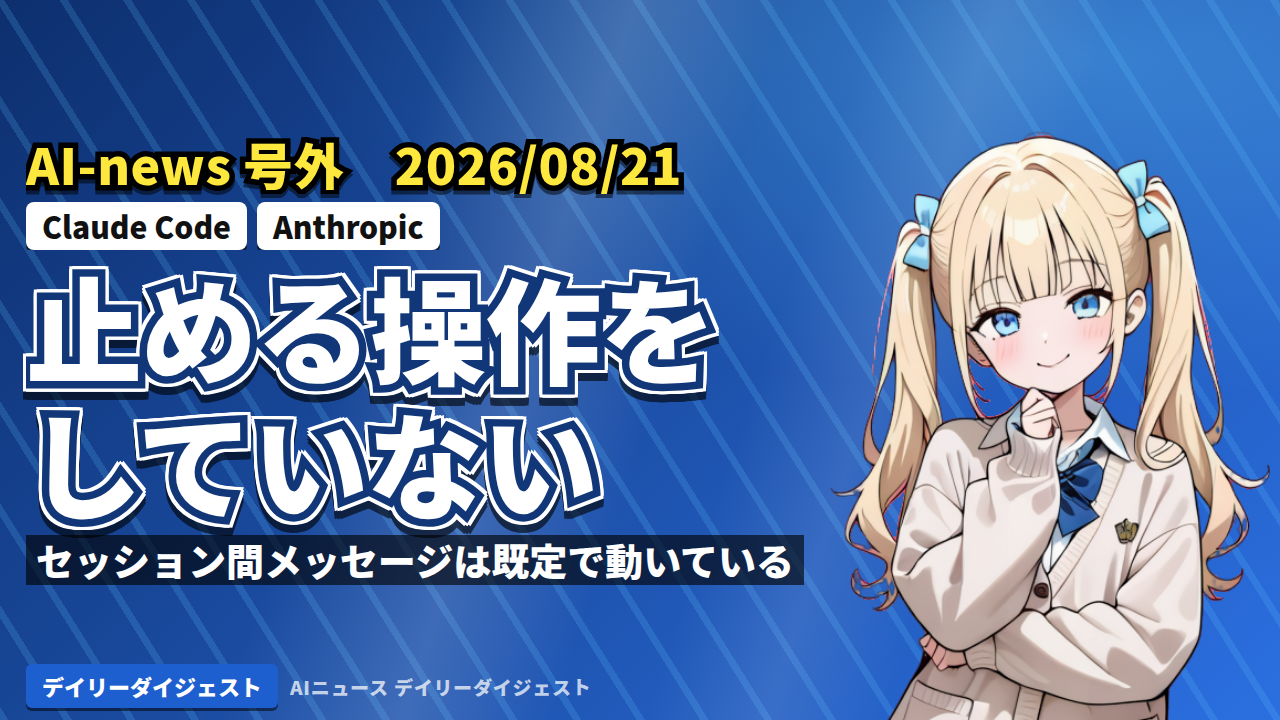
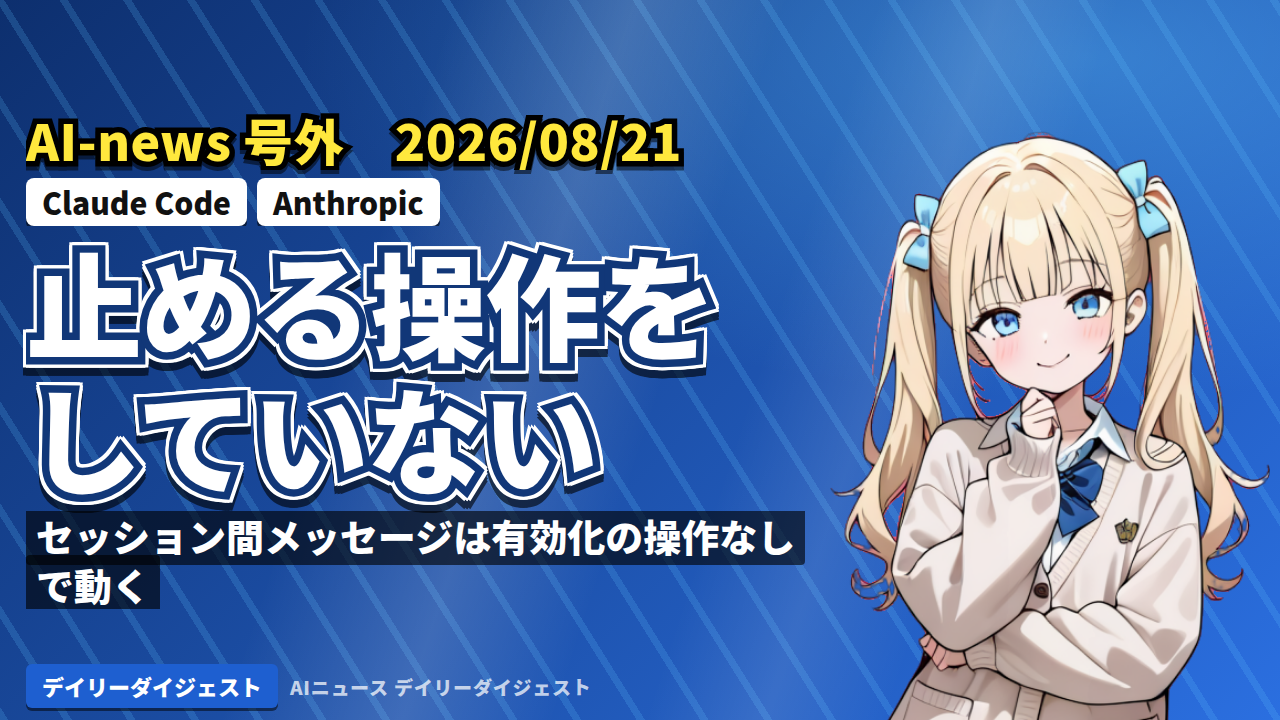
8/21号外に Ox Alpha を追記

Changed region(s): [[0.0, 0.1528, 0.625, 0.8556]]

diff --git a/index.html b/index.html
@@ -39,7 +39,7 @@
           <span class="hero-date">2026年8月21日(金)</span>
         </div>
         <h1 class="hero-title">AI-news：2026/08/21 号外 — Claude Codeのセッション間メッセージは、有効にする操作なしで動いている</h1>
-        <p class="hero-sum">収集網の穴を塞ぐ巡回を作り、落としていた4件を拾い直した号外。Claude Codeのセッション間メッセージは2.1.224から有効化操作なしでオンになっており、Bedrock経由では提供されない。Anthropic Python SDKが1.0.0になり、Bedrockはregion未指定だと起動時にValueErrorになる。公式のセッション運用ガイドと、MITで公開されたDeepSeek Harnessも扱う。</p>
+        <p class="hero-sum">収集網の穴を塞ぐ巡回を作り、落としていた4件を拾い直した号外。Claude Codeのセッション間メッセージは2.1.224から有効化操作なしでオンになっており、Bedrock経由では提供されない。Anthropic Python SDKが1.0.0になり、Bedrockはregion未指定だと起動時にValueErrorになる。今朝OpenRouterに現れた匿名モデル「Ox Alpha」は無料だがプロンプトが提供者に保持される。公式のセッション運用ガイドとDeepSeek HarnessのMIT公開も扱う。</p>
         <span class="hero-go">この号を読む</span>
       </div>
     </a>
@@ -115,13 +115,13 @@
 
     <div class="post-list" id="postList">
       <a class="post-card" href="contents/2026-08-21_002/"
-         data-tags="Claude Code|Anthropic|AWS|DeepSeek|OSS" data-category="デイリーダイジェスト"
-         data-date="2026-08-21" data-search="ai-news：2026/08/21 号外 — claude codeのセッション間メッセージは、有効にする操作なしで動いている 収集網の穴を塞ぐ巡回を作り、落としていた4件を拾い直した号外。claude codeのセッション間メッセージは2.1.224から有効化操作なしでオンになっており、bedrock経由では提供されない。anthropic python sdkが1.0.0になり、bedrockはregion未指定だと起動時にvalueerrorになる。公式のセッション運用ガイドと、mitで公開されたdeepseek harnessも扱う。 デイリーダイジェスト claude code anthropic aws deepseek oss ai-news：2026/08/21 号外 — claude codeのセッション間メッセージは、有効にする操作なしで動いている aiニュース デイリーダイジェスト 2026年8月21日(金) ai-news：2026/08/21 号外 — claude codeのセッション間メッセージは、有効にする操作なしで動いている 収集の穴を塞いで拾い直した4件（対象期間: 8月7日〜8月21日） ⭐ 今日の3行まとめ claude codeのセッション間メッセージは2.1.224から「有効にする操作なし」で動いている 公式ドキュメントに「有効にする操作は何もなく、messaging はオンになっている」と書かれています。届いたメッセージは 自分で打ったプロンプトと同じように利用量に計上され 、アイドルなら新しいターンが始まります。macos / linux のみで、 amazon bedrock経由では提供されません 。止め方は本文に。 anthropic python sdkが1.0.0に — bedrockはregion未指定だと起動時に落ちる これまでは警告を出して us-east-1へ暗黙にフォールバック していたのが、構築時に valueerror になりました。ほかにpython最低版が3.9→3.10、http層が httpx から httpx2 へ、 temperature 等がメソッドから削除、旧text completions apiが削除。 公式のセッション運用ガイドと、deepseek harnessのmit公開 anthropicが8/14に運用ガイドを公開。 会話の途中で /model や /effort を変えるとキャッシュが壊れて会話全体が再送になる 、と明記されました。deepseek harnessは公式・mitの開発者プレビューで、readmeに破壊的変更の予告があります。 目次 なぜ号外なのか — 収集網に穴があった 実務者向けのai開発ツール(4件) 参考文献 🔧 なぜ号外なのか — 収集網に穴があった 毎朝のダイジェストは、各社の変更履歴（changelog）と公式xアカウントを見て作っています。8月21日に自分の記事を点検したところ、 その2つに載らない型の一次資料を丸ごと落としていた ことが分かりました。 左は発表の形を取るので拾える。右は形を取らないので、イベントを追う巡回からは構造的に漏れる。 落としたのは3件で、どれも同じ型でした。ベンダーが出す 運用ガイド 、 ossの公開 、 ドキュメントにだけ載る機能 です。発表イベントの形を取らないので、イベントを追う巡回からは構造的に漏れます。 対策として、フィード・サイトマップ・npm/pypiのレジストリを前回との差分で見る巡回を作りました。最初の実行で、落としていた公式ガイドが実際に出てきました。この号は、その巡回で拾い直した4件です。 レジストリが要になる。 ossの公開はブログやxより先にパッケージレジストリへ出ることがあります。実際deepseek harnessは、npmへの最初の投入が公式発表の3日前でした。 到達できないことは、無いことの証拠にならない。 この環境からは github.com が403です。それを根拠に「確認できない」と判断して1件を保留にしていましたが、公式サイトを開けば製品として載っていました。 今やること。対応は不要。 読み物として読んでください。以降の4件が本題です。 🧰 実務者向けのai開発ツール 4件 anthropic claude codeのセッション間メッセージは、有効にする操作なしで動いている — 止め方と、bedrockでは使えないこと 2.1.224 / 8月7日 ⚠ 既定の挙動 claude code claude codeは2.1.224で、別々に開いているセッション同士がメッセージを送り合う機能を入れました。相手を探す listagents と、送る sendmessage の2つです。 読者にとっての要点は機能そのものではなく、 これが有効化の操作なしで動いている ことです。公式ドキュメントがそう書いています。 公式ドキュメント（cross-session messaging）の原文 cross-session messaging requires claude code v2.1.224 or later and runs on macos and linux. when a session meets the requirements, messaging is on with nothing to enable. 届くかどうかは、送る側と受け取る側の 権限モードの組み合わせ でメッセージごとに決まります。設定としての既定値はありません。 受け取る側 送る側が通常 送る側が権限確認を飛ばす設定 通常（権限確認が出る） そのまま届く 承認待ちで保留 権限確認を飛ばす設定 承認待ちで保留 そのまま届く つまり 普通に使っているセッションは、届いたメッセージをそのまま受け取ります。 受け取ったあとの扱いも書かれています。 公式ドキュメント（配達後の扱い）の原文 once delivered, the message counts toward usage like a prompt you type アイドルなら新しいターンが始まる。 ターンの実行中に届いた場合は、ツールの実行を中断せず、ツール呼び出しの合間に読まれます。 aws経由では、そもそも機能が無い。 amazon bedrock・claude platform on aws・google cloudのagent platform・microsoft foundry 経由では提供されません。ネイティブwindowsも対象外です（wsl 2の中のlinuxは対象）。 2.1.236で notify_when_idle が加わった。 同じマシンの別セッションに「次にアイドルになったら1回だけ知らせて」と頼めます。opt-in・1回限り・ポーリングなしで、購読は12時間で失効します。送る側と受け取る側の両方が2.1.236以降である必要があります。 止め方の設定を見る settings.json（受信も送信も止める） { &quot;permissions&quot;: { &quot;deny&quot;: [&quot;sendmessage&quot;, &quot;listagents&quot;] }, &quot;crosssessioninbound&quot;: &quot;refuse&quot; } claude code のバージョンが 2.1.224 以降か確認した 同時に複数のセッションを開く使い方をしているか整理した 受け取りたくない場合、 crosssessioninbound を refuse にした 上から順に潰してください。 0 / 3 今やること。 macos / linux で2.1.224以降を使い、同時に複数のセッションを開いているなら、既に話しかけられる状態です。受け取りたくなければ crosssessioninbound を refuse にし、送信も止めるなら sendmessage と listagents を deny に足す。 amazon bedrock経由で使っているなら、この機能は提供されないので対応は不要です。 pypi / anthropic anthropic python sdkが1.0.0に — bedrockはregion未指定だと起動時に落ちる 8/21 4:58 jst ⚠ 破壊的変更 aws pythonからclaudeを呼ぶ公式ライブラリ anthropic が、0.125.0から1.0.0に上がりました。0番台から1.0への変更なので、互換性のない変更が入っています。 awsを使っている読者に一番効くのはbedrockです。 これまではリージョンが見つからないと警告だけ出して us-east-1 で動いていた のが、構築した時点で例外になります。 移行ガイド migration.md の原文 `anthropicbedrock` / `asyncanthropicbedrock` used to log a warning and silently fall back to `us-east-1` when no aws region could be found. they now raise a `valueerror` at construction time instead. 気付かないうちに us-east-1 で動いていた構成は、上げた瞬間に起動しなくなります。 落ちるのは良いこと で、意図しないリージョンで課金され続けるより先に分かります。 直し方（どれか1つ） anthropicbedrock(aws_region=&quot;ap-northeast-1&quot;) # または環境変数 export aws_region=ap-northeast-1 探す順番も増えている。 1.0.0は aws_region 引数 → aws_region / aws_default_region → 指定した aws_profile のboto3設定、の順で解決します。移行ガイドには「以前はプロファイル引数がリージョン検索で無視されていた」と書かれています。 pythonの最低版が3.9から3.10へ。 3.9の環境では pip が1.0.0を選ばず、0.125.0までしか入りません。pyda">
+         data-tags="Claude Code|Anthropic|AWS|DeepSeek|OpenRouter" data-category="デイリーダイジェスト"
+         data-date="2026-08-21" data-search="ai-news：2026/08/21 号外 — claude codeのセッション間メッセージは、有効にする操作なしで動いている 収集網の穴を塞ぐ巡回を作り、落としていた4件を拾い直した号外。claude codeのセッション間メッセージは2.1.224から有効化操作なしでオンになっており、bedrock経由では提供されない。anthropic python sdkが1.0.0になり、bedrockはregion未指定だと起動時にvalueerrorになる。今朝openrouterに現れた匿名モデル「ox alpha」は無料だがプロンプトが提供者に保持される。公式のセッション運用ガイドとdeepseek harnessのmit公開も扱う。 デイリーダイジェスト claude code anthropic aws deepseek openrouter ai-news：2026/08/21 号外 — claude codeのセッション間メッセージは、有効にする操作なしで動いている aiニュース デイリーダイジェスト 2026年8月21日(金) ai-news：2026/08/21 号外 — claude codeのセッション間メッセージは、有効にする操作なしで動いている 収集の穴を塞いで拾い直した4件（対象期間: 8月7日〜8月21日） ⭐ 今日の3行まとめ claude codeのセッション間メッセージは2.1.224から「有効にする操作なし」で動いている 公式ドキュメントに「有効にする操作は何もなく、messaging はオンになっている」と書かれています。届いたメッセージは 自分で打ったプロンプトと同じように利用量に計上され 、アイドルなら新しいターンが始まります。macos / linux のみで、 amazon bedrock経由では提供されません 。止め方は本文に。 anthropic python sdkが1.0.0に — bedrockはregion未指定だと起動時に落ちる これまでは警告を出して us-east-1へ暗黙にフォールバック していたのが、構築時に valueerror になりました。ほかにpython最低版が3.9→3.10、http層が httpx から httpx2 へ、 temperature 等がメソッドから削除、旧text completions apiが削除。 正体を明かさないモデル「ox alpha」がopenrouterに現れた — 無料だが、プロンプトは提供者に保持される 今朝5時すぎの登場で、100万トークンの文脈・画像と動画の入力・価格ゼロ。ただし提供者は匿名で、モデルページに プロンプトと出力は提供者に保持される と明記されています。試すのは自由でも、 業務のコードや秘密情報は送らない 判断材料になります。公式のセッション運用ガイドとdeepseek harnessのmit公開も本文で扱います。 目次 なぜ号外なのか — 収集網に穴があった 実務者向けのai開発ツール(4件) モデル・業界(1件) 参考文献 🔧 なぜ号外なのか — 収集網に穴があった 毎朝のダイジェストは、各社の変更履歴（changelog）と公式xアカウントを見て作っています。8月21日に自分の記事を点検したところ、 その2つに載らない型の一次資料を丸ごと落としていた ことが分かりました。 左は発表の形を取るので拾える。右は形を取らないので、イベントを追う巡回からは構造的に漏れる。 落としたのは3件で、どれも同じ型でした。ベンダーが出す 運用ガイド 、 ossの公開 、 ドキュメントにだけ載る機能 です。発表イベントの形を取らないので、イベントを追う巡回からは構造的に漏れます。 対策として、フィード・サイトマップ・npm/pypiのレジストリを前回との差分で見る巡回を作りました。最初の実行で、落としていた公式ガイドが実際に出てきました。この号は、その巡回で拾い直した4件です。 レジストリが要になる。 ossの公開はブログやxより先にパッケージレジストリへ出ることがあります。実際deepseek harnessは、npmへの最初の投入が公式発表の3日前でした。 到達できないことは、無いことの証拠にならない。 この環境からは github.com が403です。それを根拠に「確認できない」と判断して1件を保留にしていましたが、公式サイトを開けば製品として載っていました。 今やること。対応は不要。 読み物として読んでください。以降の4件が本題です。 🧰 実務者向けのai開発ツール 4件 anthropic claude codeのセッション間メッセージは、有効にする操作なしで動いている — 止め方と、bedrockでは使えないこと 2.1.224 / 8月7日 ⚠ 既定の挙動 claude code claude codeは2.1.224で、別々に開いているセッション同士がメッセージを送り合う機能を入れました。相手を探す listagents と、送る sendmessage の2つです。 読者にとっての要点は機能そのものではなく、 これが有効化の操作なしで動いている ことです。公式ドキュメントがそう書いています。 公式ドキュメント（cross-session messaging）の原文 cross-session messaging requires claude code v2.1.224 or later and runs on macos and linux. when a session meets the requirements, messaging is on with nothing to enable. 届くかどうかは、送る側と受け取る側の 権限モードの組み合わせ でメッセージごとに決まります。設定としての既定値はありません。 受け取る側 送る側が通常 送る側が権限確認を飛ばす設定 通常（権限確認が出る） そのまま届く 承認待ちで保留 権限確認を飛ばす設定 承認待ちで保留 そのまま届く つまり 普通に使っているセッションは、届いたメッセージをそのまま受け取ります。 受け取ったあとの扱いも書かれています。 公式ドキュメント（配達後の扱い）の原文 once delivered, the message counts toward usage like a prompt you type アイドルなら新しいターンが始まる。 ターンの実行中に届いた場合は、ツールの実行を中断せず、ツール呼び出しの合間に読まれます。 aws経由では、そもそも機能が無い。 amazon bedrock・claude platform on aws・google cloudのagent platform・microsoft foundry 経由では提供されません。ネイティブwindowsも対象外です（wsl 2の中のlinuxは対象）。 2.1.236で notify_when_idle が加わった。 同じマシンの別セッションに「次にアイドルになったら1回だけ知らせて」と頼めます。opt-in・1回限り・ポーリングなしで、購読は12時間で失効します。送る側と受け取る側の両方が2.1.236以降である必要があります。 止め方の設定を見る settings.json（受信も送信も止める） { &quot;permissions&quot;: { &quot;deny&quot;: [&quot;sendmessage&quot;, &quot;listagents&quot;] }, &quot;crosssessioninbound&quot;: &quot;refuse&quot; } claude code のバージョンが 2.1.224 以降か確認した 同時に複数のセッションを開く使い方をしているか整理した 受け取りたくない場合、 crosssessioninbound を refuse にした 上から順に潰してください。 0 / 3 今やること。 macos / linux で2.1.224以降を使い、同時に複数のセッションを開いているなら、既に話しかけられる状態です。受け取りたくなければ crosssessioninbound を refuse にし、送信も止めるなら sendmessage と listagents を deny に足す。 amazon bedrock経由で使っているなら、この機能は提供されないので対応は不要です。 pypi / anthropic anthropic python sdkが1.0.0に — bedrockはregion未指定だと起動時に落ちる 8/21 4:58 jst ⚠ 破壊的変更 aws pythonからclaudeを呼ぶ公式ライブラリ anthropic が、0.125.0から1.0.0に上がりました。0番台から1.0への変更なので、互換性のない変更が入っています。 awsを使っている読者に一番効くのはbedrockです。 これまではリージョンが見つからないと警告だけ出して us-east-1 で動いていた のが、構築した時点で例外になります。 移行ガイド migration.md の原文 `anthropicbedrock` / `asyncanthropicbedrock` used to log a warning and silently fall back to `us-east-1` when no aws region could be found. they now raise a `valueerror` at construction time instead. 気付かないうちに us-east-1 で動いていた構成は、上げた瞬間に起動しなくなります。 落ちるのは良いこと で、意図しないリージョンで課金され続けるより先に分かります。 直し方（どれか1つ） anthropicbedrock(aws_region=&quot;ap-northeast-1&quot;) # または環境変数 export aws_region=ap-northeast-1 探す順番も増えている。 1.0.0は aws_region 引数 → aws_region / aws_default_region → 指定した aws_profile のboto3設定、の順で解決します。移行ガイドには「以前はプロファイル引数がリージョン検索で無視されていた」と書かれています。 pythonの">
         <img class="post-thumb" src="contents/2026-08-21_002/images/thumb.png" alt="" loading="lazy" onerror="this.outerHTML='<div class=&quot;post-thumb-ph&quot;>📰</div>'">
         <div class="post-body">
           <div class="post-date"><span class="post-cat">デイリーダイジェスト</span>2026年8月21日(金)</div>
           <h3 class="post-title">AI-news：2026/08/21 号外 — Claude Codeのセッション間メッセージは、有効にする操作なしで動いている</h3>
-          <p class="post-summary">収集網の穴を塞ぐ巡回を作り、落としていた4件を拾い直した号外。Claude Codeのセッション間メッセージは2.1.224から有効化操作なしでオンになっており、Bedrock経由では提供されない。Anthropic Python SDKが1.0.0になり、Bedrockはregion未指定だと起動時にValueErrorになる。公式のセッション運用ガイドと、MITで公開されたDeepSeek Harnessも扱う。</p>
+          <p class="post-summary">収集網の穴を塞ぐ巡回を作り、落としていた4件を拾い直した号外。Claude Codeのセッション間メッセージは2.1.224から有効化操作なしでオンになっており、Bedrock経由では提供されない。Anthropic Python SDKが1.0.0になり、Bedrockはregion未指定だと起動時にValueErrorになる。今朝OpenRouterに現れた匿名モデル「Ox Alpha」は無料だがプロンプトが提供者に保持される。公式のセッション運用ガイドとDeepSeek HarnessのMIT公開も扱う。</p>
           <div class="post-tags"><span class="post-tag">#Claude Code</span><span class="post-tag">#Anthropic</span><span class="post-tag">#AWS</span><span class="post-tag">#DeepSeek</span></div>
           <span class="post-more">続きを読む →</span>
         </div>

diff --git a/contents/2026-08-21_002/index.html b/contents/2026-08-21_002/index.html
@@ -42,8 +42,8 @@
         <span>これまでは警告を出して<mark>us-east-1へ暗黙にフォールバック</mark>していたのが、構築時に<code>ValueError</code>になりました。ほかにPython最低版が3.9→3.10、HTTP層が<code>httpx</code>から<code>httpx2</code>へ、<code>temperature</code>等がメソッドから削除、旧Text Completions APIが削除。</span>
       </li>
       <li>
-        <b>公式のセッション運用ガイドと、DeepSeek HarnessのMIT公開</b>
-        <span>Anthropicが8/14に運用ガイドを公開。<mark>会話の途中で<code>/model</code>や<code>/effort</code>を変えるとキャッシュが壊れて会話全体が再送になる</mark>、と明記されました。DeepSeek Harnessは公式・MITの開発者プレビューで、READMEに破壊的変更の予告があります。</span>
+        <b>正体を明かさないモデル「Ox Alpha」がOpenRouterに現れた — 無料だが、プロンプトは提供者に保持される</b>
+        <span>今朝5時すぎの登場で、100万トークンの文脈・画像と動画の入力・価格ゼロ。ただし提供者は匿名で、モデルページに<mark>プロンプトと出力は提供者に保持される</mark>と明記されています。試すのは自由でも、<mark>業務のコードや秘密情報は送らない</mark>判断材料になります。公式のセッション運用ガイドとDeepSeek HarnessのMIT公開も本文で扱います。</span>
       </li>
     </ol>
   </section>
@@ -53,6 +53,7 @@
     <ol>
       <li><a href="#why">なぜ号外なのか — 収集網に穴があった</a></li>
       <li><a href="#work">実務者向けのAI開発ツール(4件)</a></li>
+      <li><a href="#industry">モデル・業界(1件)</a></li>
       <li><a href="#refs">参考文献</a></li>
     </ol>
   </nav>
@@ -228,6 +229,42 @@ export AWS_REGION=ap-northeast-1</pre></div>
     </article>
   </section>
 
+  <!-- ============ モデル・業界 ============ -->
+  <section class="section section-a" id="industry">
+    <h2>🏢 モデル・業界<span class="n">1件</span></h2>
+
+    <article class="item">
+      <div class="source"><img src="https://www.google.com/s2/favicons?domain=openrouter.ai&amp;sz=64" alt="" loading="lazy" referrerpolicy="no-referrer" onerror="this.style.display='none'">OpenRouter</div>
+      <h3>正体を明かさないモデル「Ox Alpha」がOpenRouterに — 無料だが、プロンプトは提供者に保持される</h3>
+      <div class="tags">
+        <span class="tag">8/21 5:04 JST</span>
+        <span class="tag">新モデル</span>
+        <span class="tag">OpenRouter</span>
+      </div>
+      <p class="lead">OpenRouterとは、いろいろな会社のAIモデルを1つの窓口から呼べる仲介サービスです。そこに今朝、<mark>作った会社を明かさないモデル</mark>「Ox Alpha」が載りました。モデル一覧APIの登録時刻は日本時間8月21日 5:04、公式Xの告知は6:02です（当サイトの朝5時の号の、対象期間の直後でした）。</p>
+      <div class="code wrap"><div class="code-head">OpenRouter 公式Xの告知（全文）</div><pre>🥷 New stealth model: Ox Alpha
+
+Ox Alpha is a frontier model built for efficient coding, sustained agentic work, and real-world production use.
+
+- 1M token context window
+- Text, image, and video input
+
+Try it now and share feedback to improve the model!</pre></div>
+
+      <ul class="points">
+        <li><b>中身。</b>文脈は1,048,576トークン、最大出力131,072トークン。テキスト・画像・動画を入力できます。価格は入力・出力とも0ドル（プレビュー中）。</li>
+        <li><b>提供者は匿名。</b>モデルページには「このプレビューの間は匿名でいることを選んだ第三者の提供者が開発・運営している」とあります。誰が作ったかは公表されていません。</li>
+        <li><b>無料の終了時期は書かれていない。</b>「1週間」と書く記事も出回っていますが、公式ページにその記載はありません。確認できないので当サイトは書きません。</li>
+      </ul>
+
+      <p class="lead">読者が判断に使うべきなのは、性能の噂ではなく<mark>データの扱い</mark>です。モデルページに明記されています。</p>
+      <div class="code wrap"><div class="code-head">モデルページの原文（データの扱い）</div><pre>Prompts and completions for this model are retained by the provider and are not used for training</pre></div>
+      <p class="lead">つまり、送ったプロンプトと出力は<b>匿名の提供者の手元に保持されます</b>。「学習には使わない」は提供者の申告で、誰の申告かは分かりません。</p>
+
+      <p class="lead"><b>今やること。</b>個人の実験で試すのは自由です。ただし<b>業務のコード・顧客情報・秘密情報は送らない</b>こと。無料で高性能なものには理由があり、この場合の対価は「誰か分からない相手にプロンプトが渡り、保持される」ことです。会社で使うかは、この1点だけで判断できます。</p>
+    </article>
+  </section>
+
   <!-- ============ 参考文献 ============ -->
   <section class="section section-d" id="refs">
     <h2>参考文献</h2>
@@ -281,6 +318,18 @@ export AWS_REGION=ap-northeast-1</pre></div>
           DeepSeek公式X（@deepseek_ai）の発表投稿（2026-08-13T13:02:03Z）。
           <details class="note-d"><summary>なぜ未確認か</summary><span class="note">投稿は長文投稿で、取得できたテキストは275文字で「built around one」の途中で切れている。全文を読めていないため、この投稿からは<b>発表時刻とMITライセンスでの公開という事実だけ</b>を採り、内容の要約には使っていない。ハーネスの中身に関する記述は、すべて公式ドキュメントとREADMEから取っている。</span></details>
           <a href="https://x.com/deepseek_ai/status/2087887408440164663">https://x.com/deepseek_ai/status/2087887408440164663</a>（2026年8月21日参照）
+        </li>
+        <li>
+          <span class="flag primary">一次資料</span>
+          OpenRouter「Ox Alpha」<i>openrouter.ai（モデルページとモデル一覧API）</i>.
+          <details class="note-d"><summary>参照箇所を見る</summary><span class="note">参照箇所: モデルページ「Ox Alpha is a reasoning model designed for coding, sustained agentic work, and production workloads.」「It is developed and operated by a third-party provider who has chosen to remain anonymous during this preview.」「Prompts and completions for this model are retained by the provider and are not used for training」。モデル一覧API（/api/v1/models）の該当エントリ: id「stealth/ox-alpha」、created 1787256295（日本時間2026年8月21日 5:04）、context_length 1,048,576、pricing prompt/completion とも「0」。<b>無料期間の長さ・提供者の正体・第三者によるベンチマーク数値は一次資料に無いので書いていない。</b>説明文はモデルページでは「a reasoning model」、公式X投稿では「a frontier model built for efficient coding」と表現が異なるため、それぞれの出典に紐付けて引用した。</span></details>
+          <a href="https://openrouter.ai/stealth/ox-alpha">https://openrouter.ai/stealth/ox-alpha</a>（2026年8月21日参照）
+        </li>
+        <li>
+          <span class="flag primary">一次資料</span>
+          OpenRouter（公式X・認証済み）「New stealth model: Ox Alpha」, 2026年8月21日 6:02 JST.
+          <details class="note-d"><summary>参照箇所を見る</summary><span class="note">参照箇所: 投稿全文（本文に転載）。取得はcdn.syndication.twimg.comのtweet-result（投稿ID 2090544970923184269）で、投稿時刻はIDのタイムスタンプから2026-08-20T21:02:16Z（日本時間8/21 6:02）。短い投稿のため全文を取得できている。</span></details>
+          <a href="https://x.com/OpenRouter/status/2090544970923184269">https://x.com/OpenRouter/status/2090544970923184269</a>（2026年8月21日参照）
         </li>
         <li>
           <span class="flag self">自分の実測</span>
